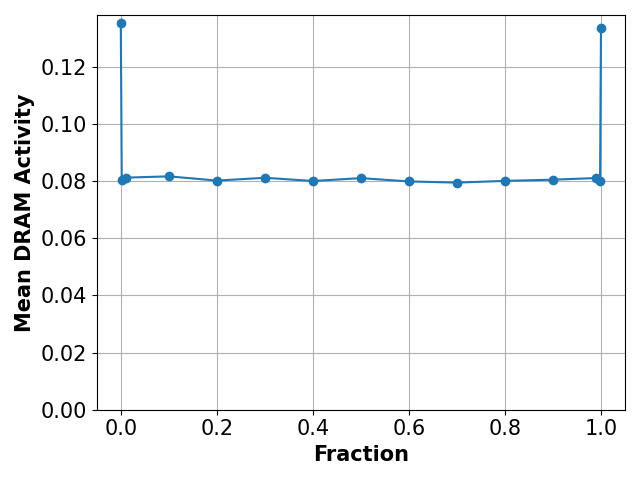
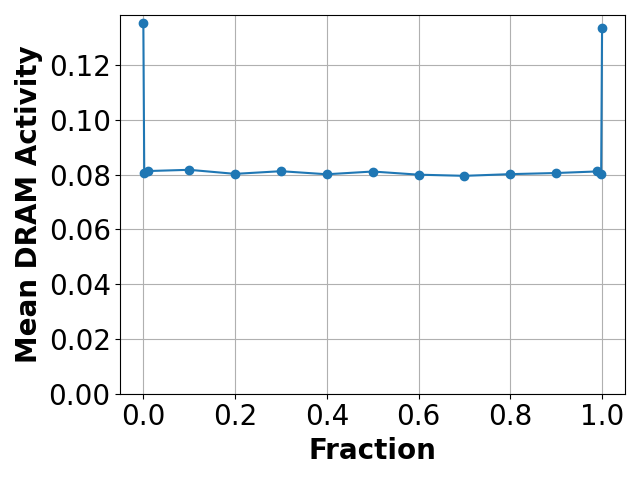
two-fam-plots

diff --git a/code/vllm/two_family_dcgmi_logs/plot.py b/code/vllm/two_family_dcgmi_logs/plot.py
@@ -37,10 +37,10 @@ fractions, sums, means = zip(*sorted_data)
 # -------------------------
 plt.figure()
 plt.plot(fractions, means, marker='o')
-plt.xlabel("Fraction", fontweight="bold", fontsize=15)
-plt.ylabel("Mean DRAM Activity", fontweight="bold", fontsize=15)
-plt.xticks(fontsize=15)
-plt.yticks(fontsize=15)
+plt.xlabel("Fraction", fontweight="bold", fontsize=20)
+plt.ylabel("Mean DRAM Activity", fontweight="bold", fontsize=20)
+plt.xticks(fontsize=20)
+plt.yticks(fontsize=20)
 plt.ylim(0, None)
 plt.grid(True)
 plt.tight_layout()
@@ -49,13 +49,13 @@ plt.savefig("../../../results/mean_dram_activity_vs_fraction_two_fam_llama8b.png
 # -------------------------
 # Plot Sum vs Fraction
 # -------------------------
-plt.figure()
-plt.plot(fractions, sums, marker='o')
-plt.xlabel("Fraction", fontweight="bold", fontsize=15)
-plt.ylabel("Sum of DRAM Activity", fontweight="bold", fontsize=15)
-plt.ylim(0, None)
-plt.xticks(fontsize=15)
-plt.yticks(fontsize=15)
-plt.grid(True)
-plt.tight_layout()
-plt.savefig("../../../results/sum_dram_activity_vs_fraction_two_fam_llama8b.png")
+# plt.figure()
+# plt.plot(fractions, sums, marker='o')
+# plt.xlabel("Fraction", fontweight="bold", fontsize=15)
+# plt.ylabel("Sum of DRAM Activity", fontweight="bold", fontsize=15)
+# plt.ylim(0, None)
+# plt.xticks(fontsize=15)
+# plt.yticks(fontsize=15)
+# plt.grid(True)
+# plt.tight_layout()
+# plt.savefig("../../../results/sum_dram_activity_vs_fraction_two_fam_llama8b.png")
